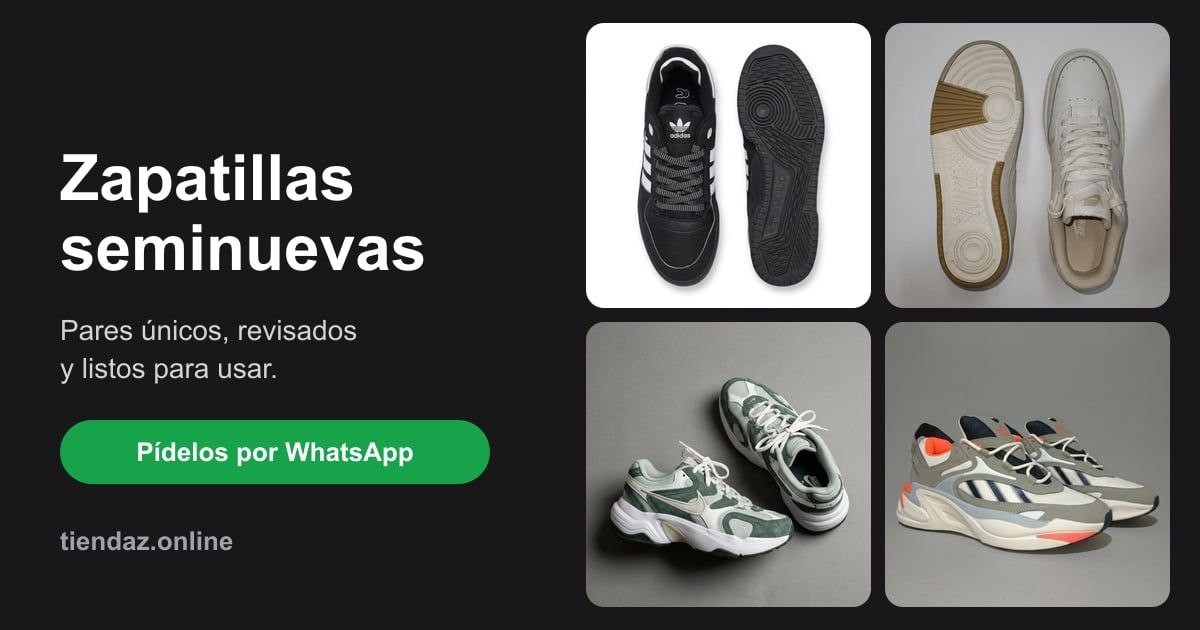
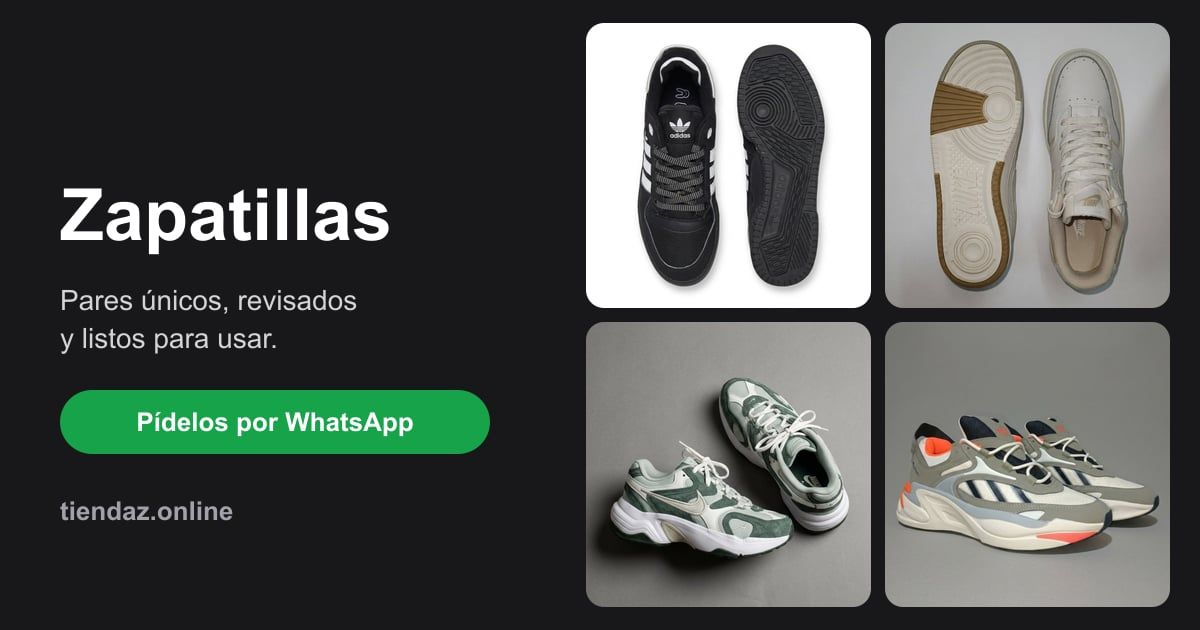
Quita "seminuevas" de titulos, descripciones e imagen de vista previa
El catalogo y los meta tags ahora dicen solo "Zapatillas" / "Tienda de
Zapatillas", y se regenero public/og-image.jpg con el titulo en una linea.

Changed region(s): [[0.0308, 0.2413, 0.4317, 0.8746]]

diff --git a/scripts/generate-og-image.ts b/scripts/generate-og-image.ts
@@ -40,13 +40,12 @@ function textPanel(): Buffer {
     `<text x="60" y="${y}" font-family="Arial, Helvetica, sans-serif" font-size="${size}" font-weight="${weight}" fill="${color}">${escapeXml(text)}</text>`;
 
   const svg = `<svg width="${WIDTH}" height="${HEIGHT}" xmlns="http://www.w3.org/2000/svg">
-    ${line(200, 64, 800, "#ffffff", "Zapatillas")}
-    ${line(270, 64, 800, "#ffffff", "seminuevas")}
-    ${line(340, 28, 400, "#d4d4d8", "Pares únicos, revisados")}
-    ${line(378, 28, 400, "#d4d4d8", "y listos para usar.")}
-    <rect x="60" y="420" width="430" height="64" rx="32" fill="#16a34a"/>
-    ${`<text x="275" y="461" text-anchor="middle" font-family="Arial, Helvetica, sans-serif" font-size="26" font-weight="700" fill="#ffffff">Pídelos por WhatsApp</text>`}
-    ${line(550, 26, 600, "#a1a1aa", "tiendaz.online")}
+    ${line(240, 72, 800, "#ffffff", "Zapatillas")}
+    ${line(310, 28, 400, "#d4d4d8", "Pares únicos, revisados")}
+    ${line(348, 28, 400, "#d4d4d8", "y listos para usar.")}
+    <rect x="60" y="390" width="430" height="64" rx="32" fill="#16a34a"/>
+    ${`<text x="275" y="431" text-anchor="middle" font-family="Arial, Helvetica, sans-serif" font-size="26" font-weight="700" fill="#ffffff">Pídelos por WhatsApp</text>`}
+    ${line(520, 26, 600, "#a1a1aa", "tiendaz.online")}
   </svg>`;
   return Buffer.from(svg);
 }

diff --git a/app/layout.tsx b/app/layout.tsx
@@ -7,15 +7,15 @@ export const metadata: Metadata = {
   // Base para las URLs absolutas de los meta tags (ej. og:image). SITE_URL permite
   // cambiar de dominio sin tocar código.
   metadataBase: new URL(process.env.SITE_URL ?? "https://tiendaz.online"),
-  title: "Tienda de Zapatillas Seminuevas",
-  description: "Catálogo de zapatillas seminuevas revisadas y listas para usar.",
+  title: "Tienda de Zapatillas",
+  description: "Catálogo de zapatillas revisadas y listas para usar.",
   openGraph: {
-    title: "Tienda de Zapatillas Seminuevas",
+    title: "Tienda de Zapatillas",
     description: "Pares únicos, revisados y listos para usar. Pídelos por WhatsApp.",
     type: "website",
     locale: "es_BO",
     // Collage generado con scripts/generate-og-image.ts.
-    images: [{ url: "/og-image.jpg", width: 1200, height: 630, alt: "Zapatillas seminuevas" }],
+    images: [{ url: "/og-image.jpg", width: 1200, height: 630, alt: "Zapatillas" }],
   },
 };
 

diff --git a/app/product/[code]/page.tsx b/app/product/[code]/page.tsx
@@ -36,7 +36,7 @@ export async function generateMetadata({ params }: Props): Promise<Metadata> {
   const description =
     product.status === "vendido"
       ? "Este par ya se vendió. Mira otros pares disponibles en el catálogo."
-      : `Seminuevas, estado ${product.condition?.toLowerCase() ?? "revisado"}. Pídelas por WhatsApp y te las llevamos para probártelas.`;
+      : `Estado ${product.condition?.toLowerCase() ?? "revisado"}. Pídelas por WhatsApp y te las llevamos para probártelas.`;
   const image = productImageList(product, 1200)[0];
 
   return {

diff --git a/app/page.tsx b/app/page.tsx
@@ -45,7 +45,7 @@ export default async function Home({
     <div className="mx-auto flex w-full max-w-6xl flex-col gap-6 px-4 pt-8 pb-24">
       <header className="flex flex-col gap-1">
         <h1 className="text-2xl font-bold text-zinc-900 dark:text-zinc-50">
-          Zapatillas seminuevas
+          Zapatillas
         </h1>
         <p className="text-sm text-zinc-500">
           Pares únicos, revisados y listos para usar. Te los llevamos para que te los pruebes.
